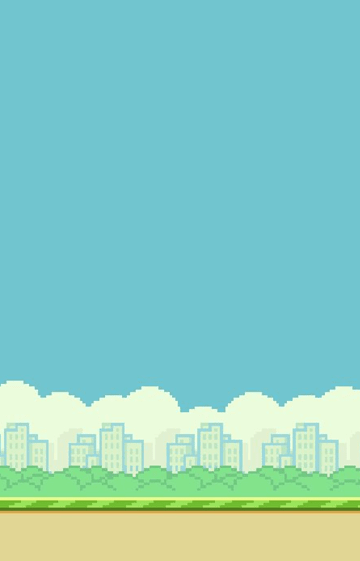
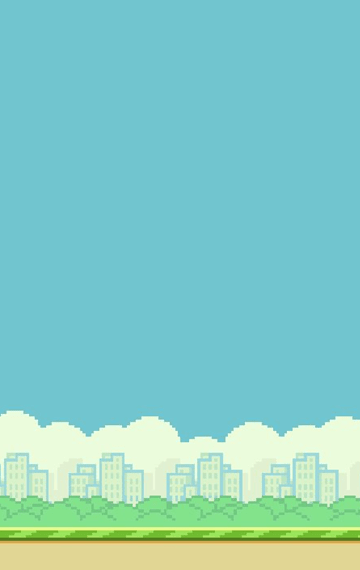
bg adjustment

Changed region(s): [[0.0, 0.6667, 1.0, 0.9697]]

diff --git a/script2.js b/script2.js
@@ -1,11 +1,11 @@
 let board;
 let boardWidth = 360;
-let boardHeight = 560;
+let boardHeight = 570;
 let context;
 
 //bird
-let birdWidth = 40; //width/height ratio = 008/228 = 17/12
-let birdHeight = 34;
+let birdWidth = 35 //width/height ratio = 008/228 = 17/12
+let birdHeight = 30;
 let birdX = boardWidth / 8;
 let birdY = boardHeight / 2;
 let birdImg;
@@ -19,7 +19,7 @@ let bird = {
 
 //pipes
 let pipeArray = [];
-let pipeWidth = 64; //width/height ratio = 384/3072 = 1/8
+let pipeWidth = 54; //width/height ratio = 384/3072 = 1/8
 let pipeHeight = 512;
 let pipeX = boardWidth;
 let pipeY = 0;
@@ -53,6 +53,7 @@ window.onload = function () {
     //load images
     birdImg = new Image();
     birdImg.src = "./images/flappybird.png";
+    // birdImg.src = "./images/noob.png";
     birdImg.onload = function () {
         context.drawImage(birdImg, bird.x, bird.y, bird.width, bird.height);
     }

diff --git a/style.css b/style.css
@@ -1,11 +1,17 @@
 *{
     padding: 0;
     margin: 0;
-    padding-top: 1px;
+    /* padding-top: 1px; */
 }
 body{
     text-align: center;
     font-family: 'Courier New', Courier, monospace;
+    display: flex;
+    justify-content: center;
+    align-items: flex-end;
+    height: 100vh;
+    background-color:rgba(113,197,207,255);
+    
 }
 #board{
     background-image: url(./images/flappybirdbg.png);
